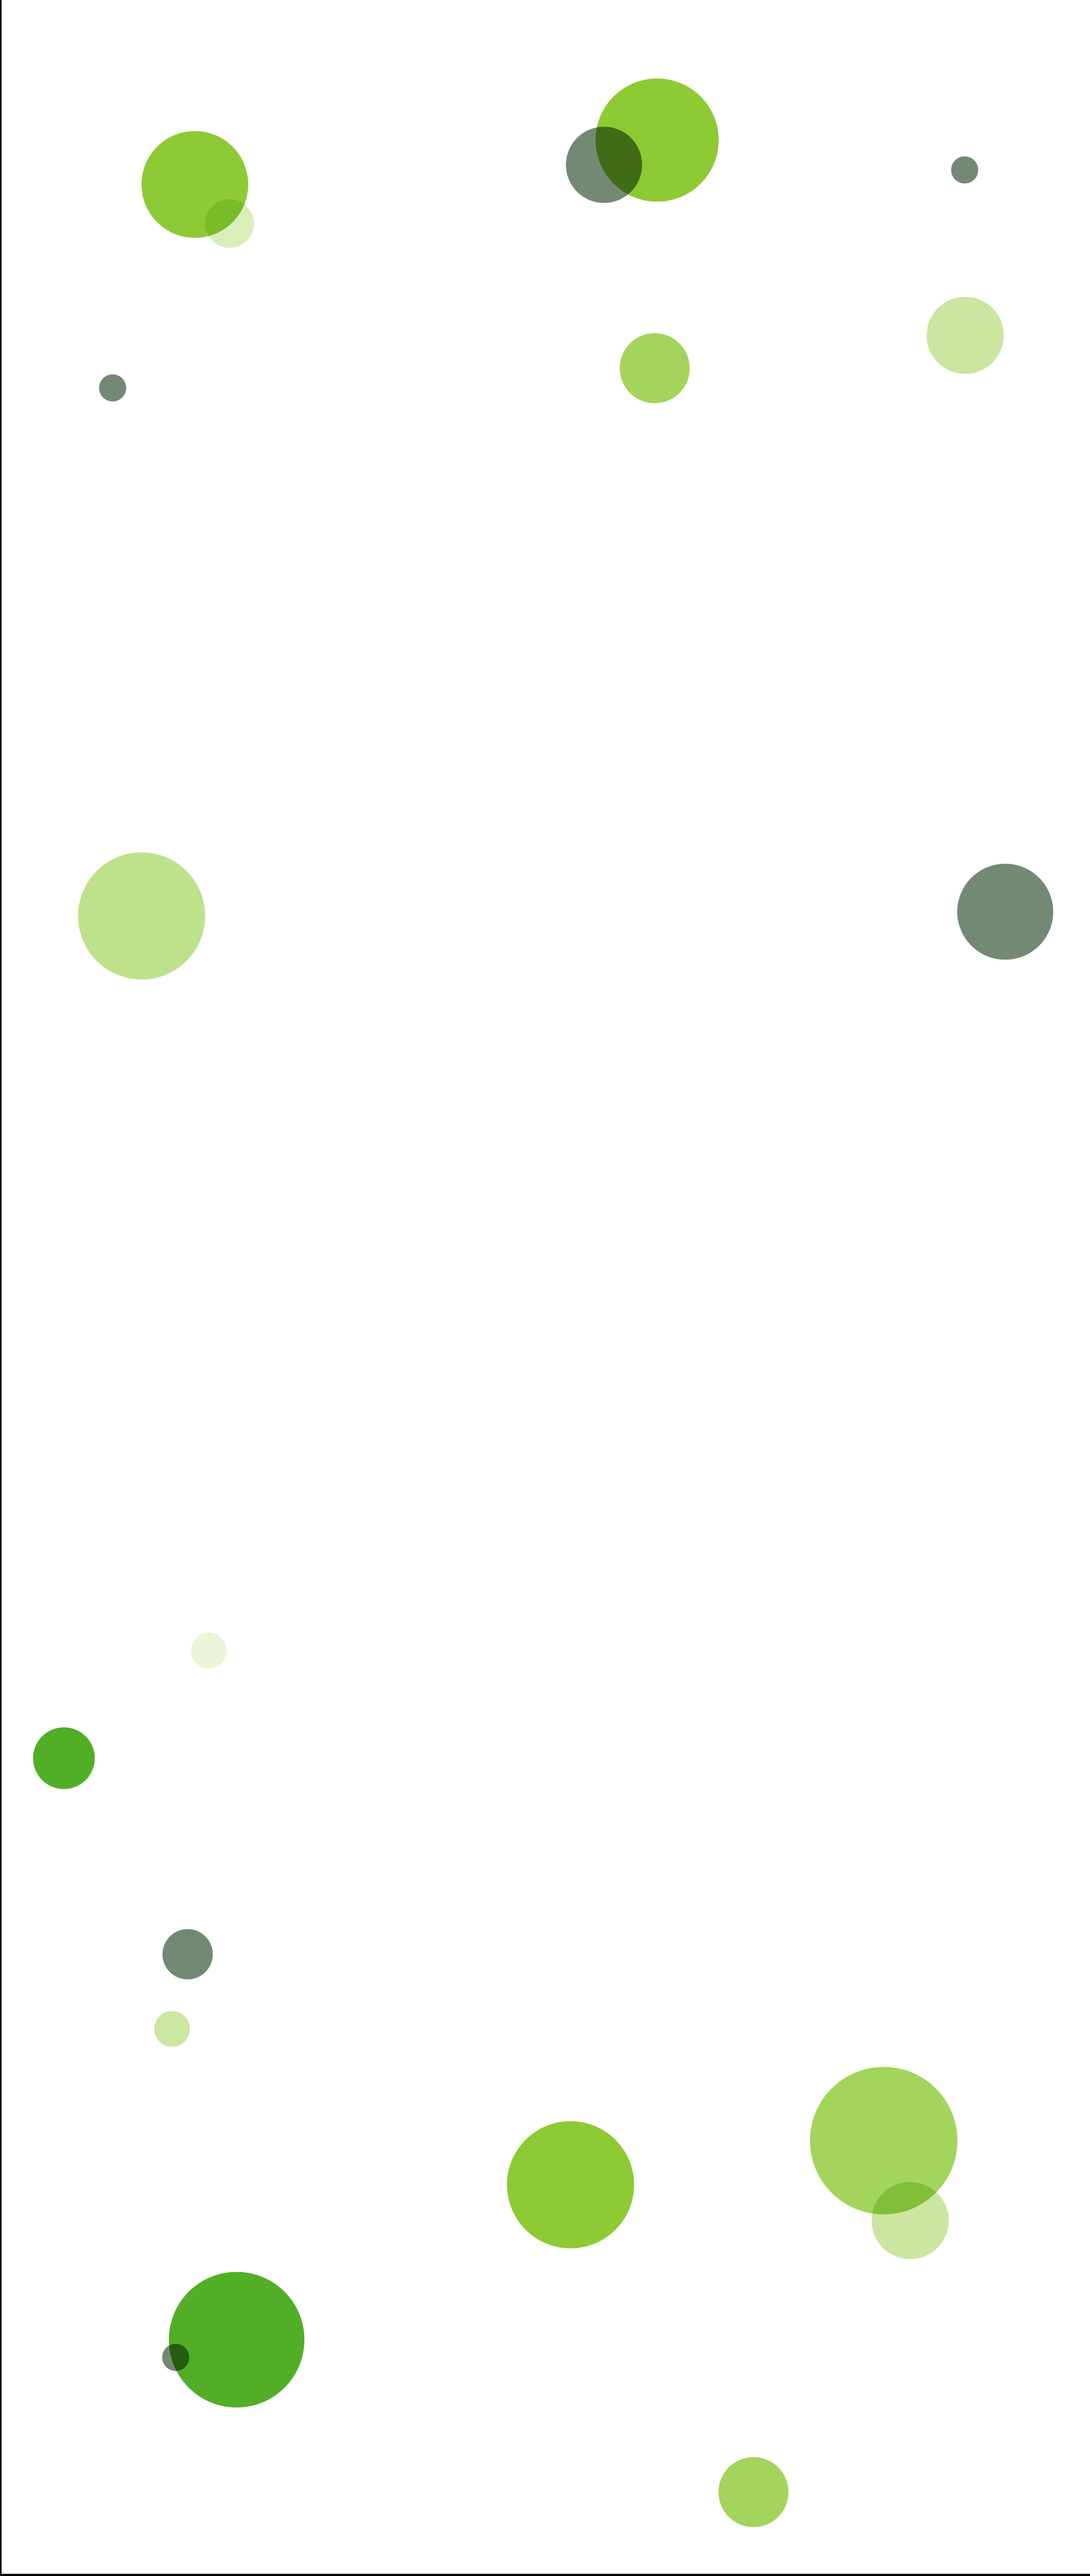
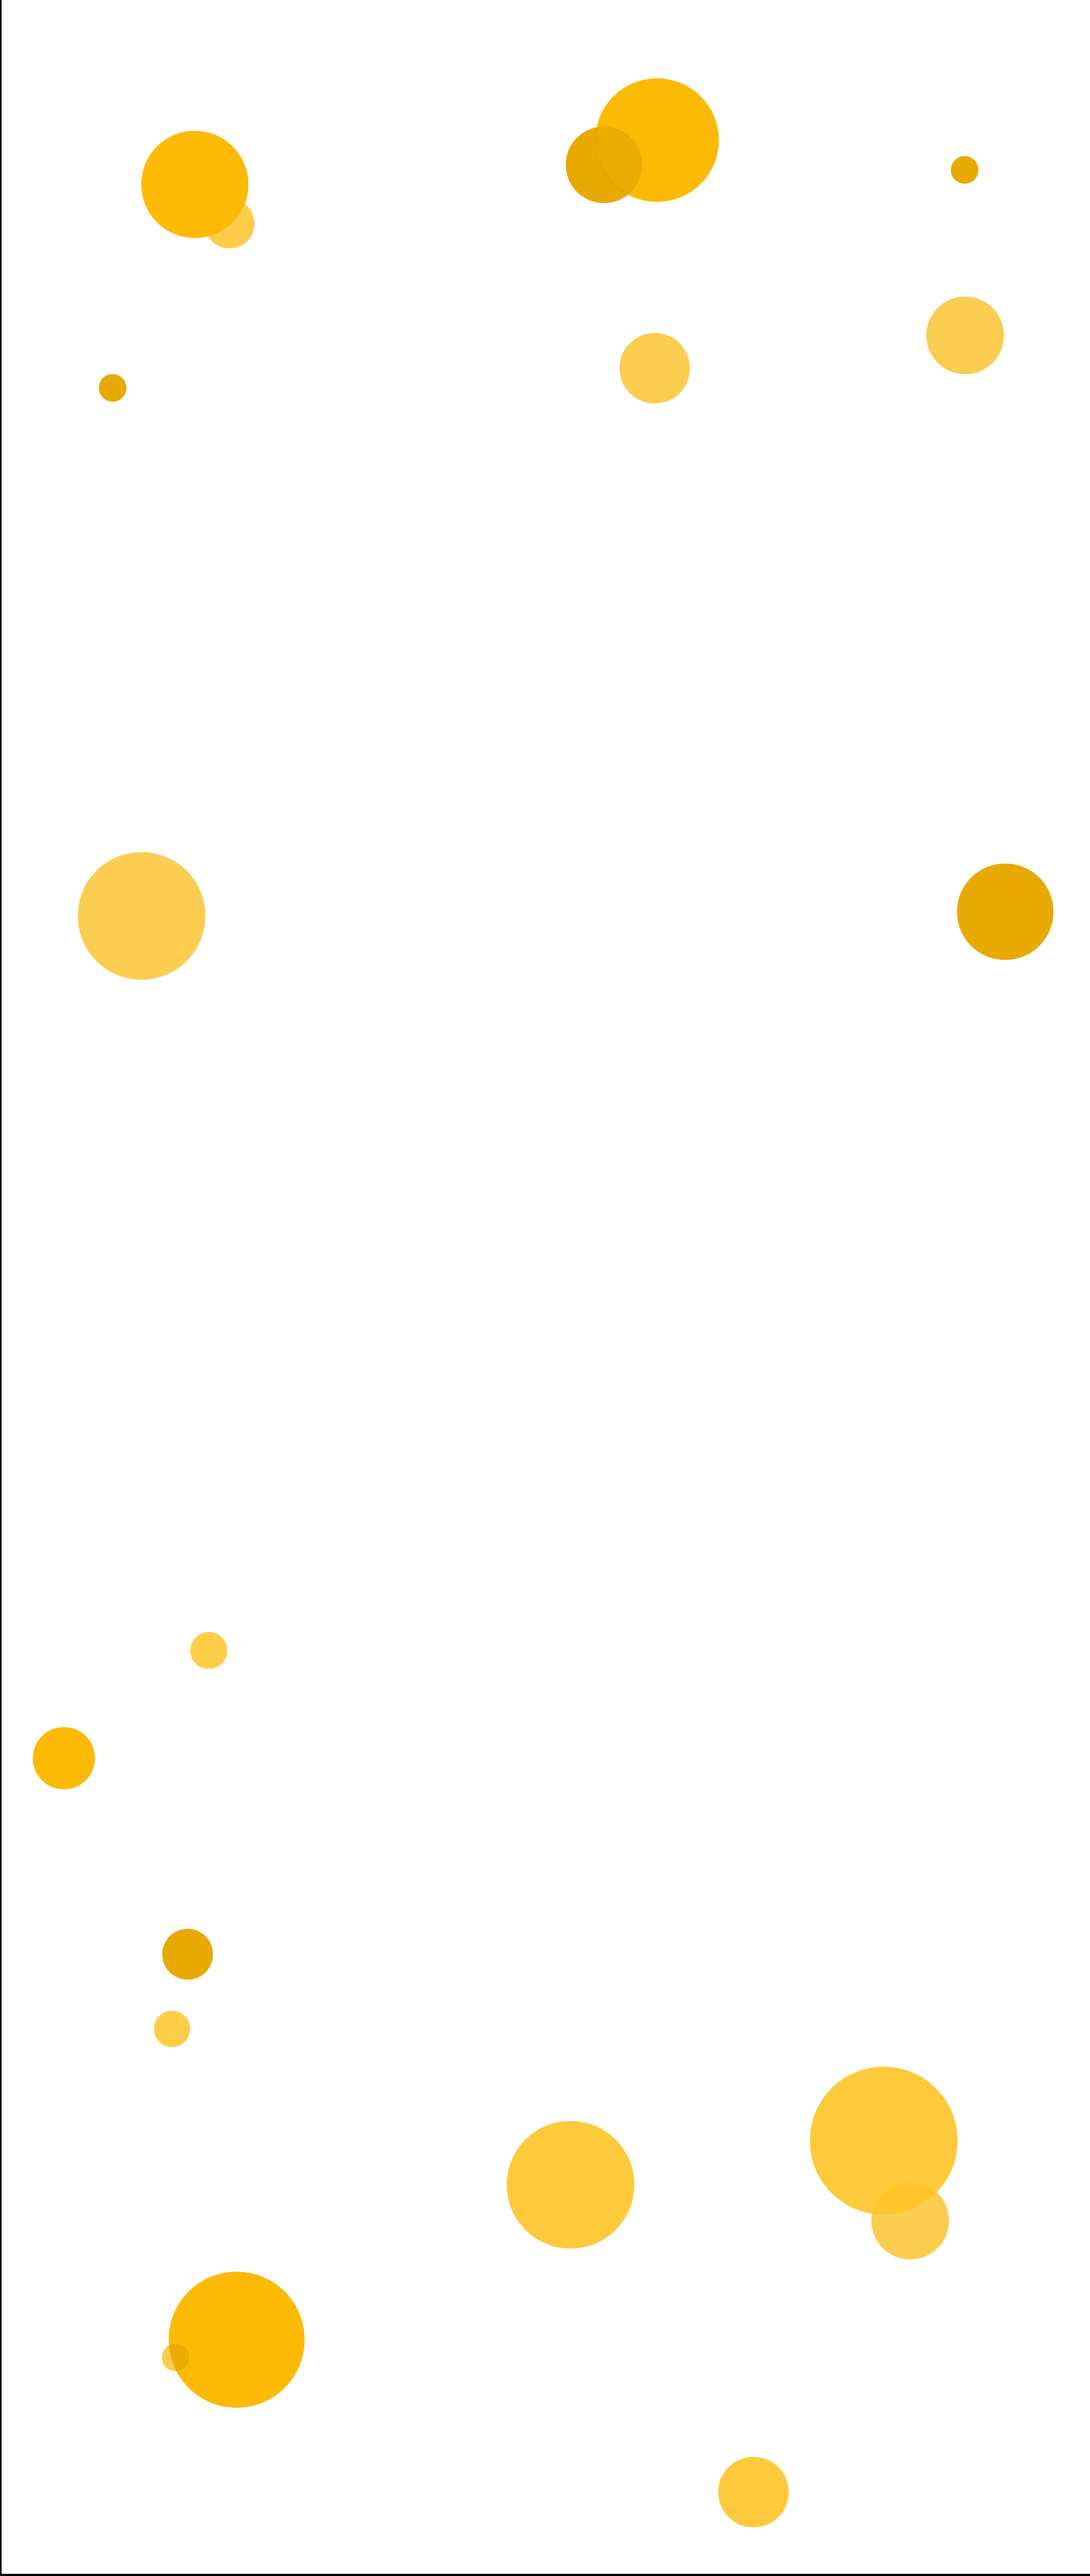
update

diff --git a/style/index.css b/style/index.css
@@ -79,7 +79,7 @@ body {
     /*background-color: black;*/
     font-size: 60px;
     font-weight: bold;
-    color: #25a719;
+    color: #fcce0b;
     padding: 10px;
     margin: 30px;
     text-align: center;
@@ -127,7 +127,7 @@ body {
 #full_name_text {
     font-size: 60px;
     font-weight: bold;
-    color: #25a719;
+    color: #fcce0b;
     /*padding: 50px;*/
     /*margin: 30px;*/
     padding-right: 300px;
@@ -135,9 +135,17 @@ body {
     justify-content: center;
 }
 
+#table_number_text {
+    font-size: 50px;
+    font-weight: 400;
+    color: #363d93;
+    text-align: center;
+    justify-content: center;
+}
+
 .message {
     width: 600px;
     font-size: 20px;
-    color: #25a719;
+    color: #fcce0b;
     text-align: center;
 }

diff --git a/routes/bubble.js b/routes/bubble.js
@@ -68,8 +68,8 @@ class Bubble {
 
         return `rgba(
             0,
-            ${this.randomNumber(100, 255)},
-            0, 
+            0,
+            ${this.randomNumber(100, 255)}, 
             ${this.randomNumber(0.1, 1)})`;
     }
 

diff --git a/index.php b/index.php
@@ -3,7 +3,7 @@
   $host = "localhost"; 
   $username = "root"; 
   $password = ""; 
-  $db = "crdb_event"; 
+  $db = "wima_event"; 
 
   // Connection
   $conn = mysqli_connect("$host","$username","$password","$db");
@@ -34,12 +34,13 @@
 
 <body id="app-main">
     <div class="btn-container">
-        <h3 class="greeting">Welcome To Branch Managers Conference 2021</h3>
+        <h3 class="greeting">WELCOME TO WIMA EVENT</h3>
     </div>
 
     <div id="output_dialog">
         <!-- <span id="welcome">Welcome</span> -->
         <span id="full_name_text"></span>
+        <span id="table_number_text"></span>
     </div>
     <script src="https://cdnjs.cloudflare.com/ajax/libs/jquery/3.5.1/jquery.min.js"></script>
     <script type="text/javascript">
@@ -82,17 +83,17 @@
                             console.log('error: ', obj.error);
                             return;
                         }
-                        // const first_name = obj.first_name;
-                        // const last_name = obj.last_name;
                         const full_name = obj.full_name;
-                        const branch_name = obj.branch_name;
-                        const zone = obj.zone;
-                        // console.log('first_name: ', first_name);
-                        console.log('full_name: ', full_name);
-                        console.log('branch_name: ', branch_name);
-                        console.log('zone: ', zone);
-                        // showOutput(first_name, last_name);
-                        showOutput(full_name, branch_name, zone);
+                        const phone_number = obj.phone_number;
+                        const company_name = obj.company_name;
+                        const position = obj.position;
+                        const table_number = obj.table_number;
+                        console.log('fullname: ', full_name);
+                        console.log('phone number: ', phone_number);
+                        console.log('company name: ', company_name);
+                        console.log('position: ', position);
+                        console.log('table_number: ', table_number);
+                        showOutput(full_name, phone_number, company_name, position, table_number);
                         } catch (e) {
                             console.log(e);
                         }
@@ -102,18 +103,18 @@
                 }
             });
 
-            function showOutput(full_name, branch_name, zone) {
-                // speech.text = "Welcome, " + first_name + " " + last_name;
-                // speech.text = "Welcome, " + full_name;
+            function showOutput(full_name, phone_number, company_name, position, table_number) {
                 speech.text = "Welcome";
                 window.speechSynthesis.speak(speech);
                 var dialog = document.getElementById("output_dialog");
                 var full_name_text = document.getElementById("full_name_text");
-                // full_name_text.innerHTML = first_name + " " + last_name;
+                var table_number_text = document.getElementById("table_number_text");
                 full_name_text.innerHTML = full_name;
+                table_number_text.innerHTML = table_number;
                 dialog.style.display = "block";
                 setTimeout(() => {
                     full_name_text.innerHTML = "";
+                    table_number_text.innerHTML = "";
                     dialog.style.display = "none";
                 }, 3000);
             }

diff --git a/reader.php b/reader.php
@@ -5,7 +5,7 @@
   $qrcode = $_POST['code']; 
 
   // $query = "SELECT first_name, last_name FROM qrcodes WHERE qrImage='$qrcode' LIMIT 1";
-  $query = "SELECT * FROM barcodes WHERE qrImage='$qrcode' LIMIT 1";
+  $query = "SELECT * FROM qr_codes WHERE qrImage='$qrcode' LIMIT 1";
   $result = mysqli_query($conn, $query);
 
   // if ($result) {
@@ -29,37 +29,53 @@
   	// $first_name = "";
    //  $last_name = "";
     $full_name = "";
-    $branch_name = "";
-    $zone = "";
+    $phone_number = "";
+    $company_name = "";
+    $position = "";
+    $table_number = "";
     foreach ($result as $row) {
     	// $first_name = $row['first_name'];
     	// $last_name = $row['last_name'];
       $full_name = $row['full_name'];
-      $branch_name = $row['branch_name'];
-      $zone = $row['zone'];
+      $phone_number = $row['phone_number'];
+      $company_name = $row['company_name'];
+      $position = $row['position'];
+      $table_number = $row['table_number'];
     }
   	// if ($first_name != "" && $last_name != "") {
   	// 	echo '{"first_name": "' . $first_name . '", "last_name": "' .$last_name . '"}';
   	// }
-    if ($full_name != "" && $branch_name != "" && $zone != "") {
+    if ($full_name != "" && $phone_number != "" && $company_name != "" && $position != "" && $table_number != "") {
       // echo '{"first_name": "' . $first_name . '", "last_name": "' .$last_name . '"}';
       // echo '{"full_name": "' .$full_name . '"}'; 
-      if (date("d-m-Y") === "13-12-2021") {
-        $query = "INSERT INTO `monday`(`full_name`, `branch_name`, `zone`) VALUES ('$full_name', '$branch_name', '$zone')";
+      if (date("d-m-Y") === "25-03-2022") {
+        $query = "INSERT INTO `eventlist`(`full_name`, `phone_number`, `company_name`, `position`, `table_number`) VALUES ('$full_name', '$phone_number', '$company_name', '$position', '$table_number')";
         $result = mysqli_query($conn, $query);
         if ($result) {
           // echo "Attended";
-          echo '{"full_name": "' .$full_name . '"}';
+          echo '{
+            "full_name": "' .$full_name . '",
+            "phone_number": "' .$phone_number . '",
+            "company_name": "' .$company_name . '",
+            "position": "' .$position . '",
+            "table_number": "' .$table_number . '"
+          }';
         }
         else{
           echo "Not attend";
         }
-      }else if (date("d-m-Y") === "14-12-2021") {
-        $query = "INSERT INTO `eventlist`(`full_name`, `branch_name`, `zone`) VALUES ('$full_name', '$branch_name', '$zone')";
+      }else if (date("d-m-Y") === "26-03-2022") {
+        $query = "INSERT INTO `eventlist`(`full_name`, `phone_number`, `company_name`, `position`, `table_number`) VALUES ('$full_name', '$phone_number', '$company_name', '$position', '$table_number')";
         $result = mysqli_query($conn, $query);
         if ($result) {
           // echo "Attended";
-          echo '{"full_name": "' .$full_name . '"}';
+          echo '{
+            "full_name": "' .$full_name . '",
+            "phone_number": "' .$phone_number . '",
+            "company_name": "' .$company_name . '",
+            "position": "' .$position . '",
+            "table_number": "' .$table_number . '"
+          }';
         }
         else{
           echo "Not attend";

diff --git a/config/db.php b/config/db.php
@@ -3,7 +3,7 @@
   $host = "localhost"; 
   $username = "root"; 
   $password = ""; 
-  $db = "crdb_event"; 
+  $db = "wima_event"; 
 
   // Connection
   $conn = mysqli_connect("$host","$username","$password","$db");
